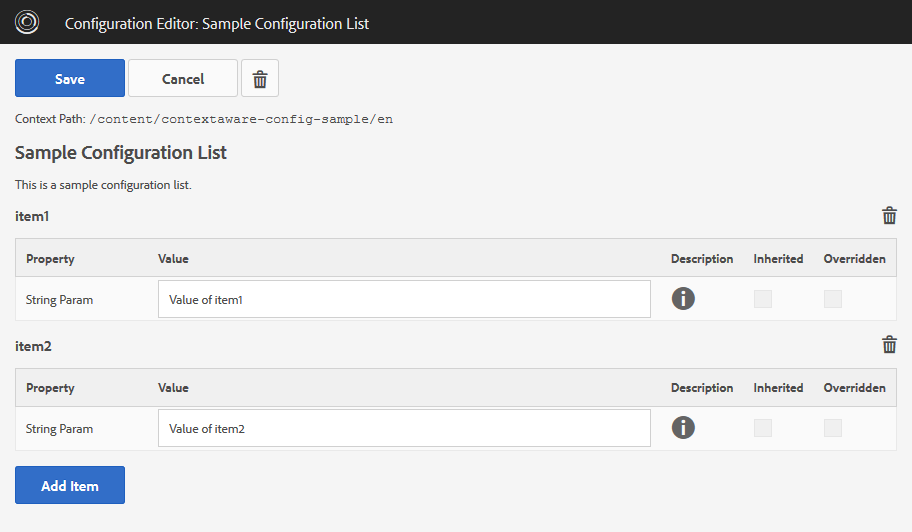
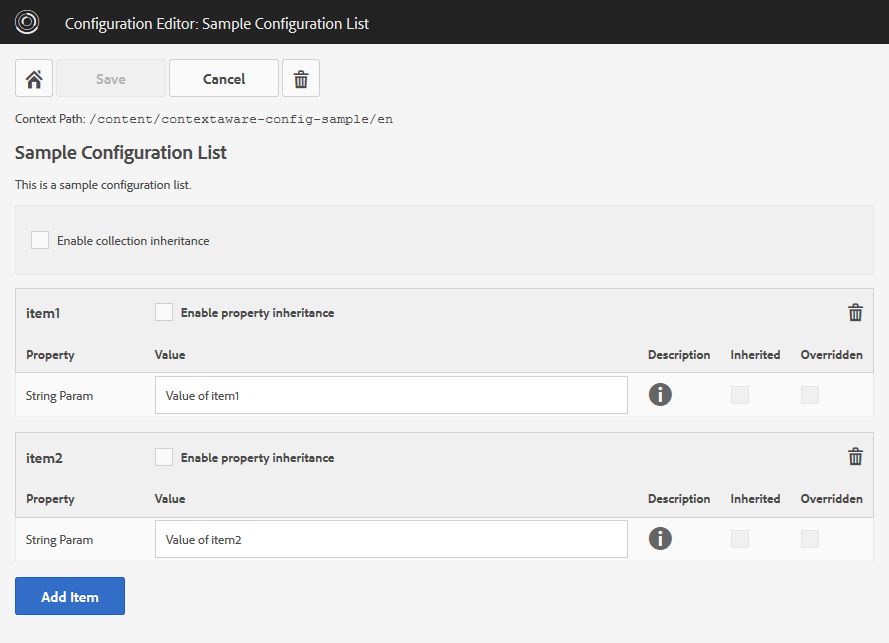
update docs

diff --git a/src/site/markdown/usage.md b/src/site/markdown/usage.md
@@ -16,9 +16,14 @@ See [Apache Sling Context-Aware Configuration documentation][sling-caconfig] for
 In most cases you will deploy the configuration editor bundle `io.wcm.caconfig.editor` together with your application. In this case you should define your own template definition for it which controls where editor config pages can created (see next section).
 
 Alternatively you can deploy this AEM package which contains the config editor bundle together with a template definition which allows all paths below `/content`:
-[![Maven Central](https://maven-badges.herokuapp.com/maven-central/io.wcm/io.wcm.caconfig.editor.package/badge.svg)](https://maven-badges.herokuapp.com/maven-central/io.wcm/io.wcm.caconfig.editor.package)
 
-When you are using AEM 6.1 or 6.2 you have to additionally deploy the Apache Sling Context-Aware Configuration bundles (API, SPI, Impl) to AEM.
+|---|---|---|
+| wcm.io Context-Aware Configuration Editor AEM Package with Template Definition | [![Maven Central](https://maven-badges.herokuapp.com/maven-central/io.wcm/io.wcm.caconfig.editor.package/badge.svg)](https://maven-badges.herokuapp.com/maven-central/io.wcm/io.wcm.caconfig.editor.package) |
+
+
+When you are using AEM 6.1 or 6.2 you have to additionally deploy the Apache Sling Context-Aware Configuration bundles (API, SPI, Impl) to AEM. In AEM 6.3 you have to update the Apache Sling Context-Aware Configuration SPI and Impl version to the latest version if you want to use Editor version 1.1 and upwards. See [here][wcmio-caconfig] for a list of latest Sling bundles.
+
+In most cases the default persistence implementation provided by Apache Sling or AEM 6.3 is not enough for the needs of AEM applications. [wcm.io Context-Aware Configuration Extensions][wcmio-caconfig-extensions] provide additional implementations and features.
 
 
 ### Defining the editor template
@@ -78,3 +83,5 @@ You should disable the configuration editor on publish by applying an OSGi confi
 
 
 [sling-caconfig]: http://sling.apache.org/documentation/bundles/context-aware-configuration/context-aware-configuration.html
+[wcmio-caconfig]: http://wcm.io/caconfig/
+[wcmio-caconfig-extensions]: http://wcm.io/caconfig/extensions/

diff --git a/src/site/markdown/index.md b/src/site/markdown/index.md
@@ -21,18 +21,18 @@ Features:
 * Manage singleton configuration, configuration collections and nested configurations
 * Display all configuration metadata and default values
 * Support all data types and arrays of values
-* Special support for inherited and overridden values
+* Control collection and property inheritance and support overridden values
 
-See [Usage][usage] for further details and some screenshots.
+See [Usage][usage] for further details, installation instructions and some screenshots.
 
 There is also a [sample application][sample-app] you can deploy directly in a local AEM 6.1 or 6.2 instance to test the configuration editor.
 
 
 ### Supported AEM versions
 
-Context-Aware Configuration is supported in AEM 6.1, 6.2 and upwards. AEM 6.0 is not supported.
+Context-Aware Configuration is supported in AEM 6.1, 6.2, 6.3 and upwards. AEM 6.0 is not supported.
 
-When you are using AEM 6.1 or 6.2 you have to additionally deploy the Apache Sling Context-Aware Configuration bundles (API, SPI, Impl) to AEM.
+When you are using AEM 6.1 or 6.2 you have to additionally deploy the Apache Sling Context-Aware Configuration bundles (API, SPI, Impl) to AEM. In AEM 6.3 you have to update the Apache Sling Context-Aware Configuration SPI and Impl version to the latest version if you want to use Editor version 1.1 and upwards.
 
 
 
